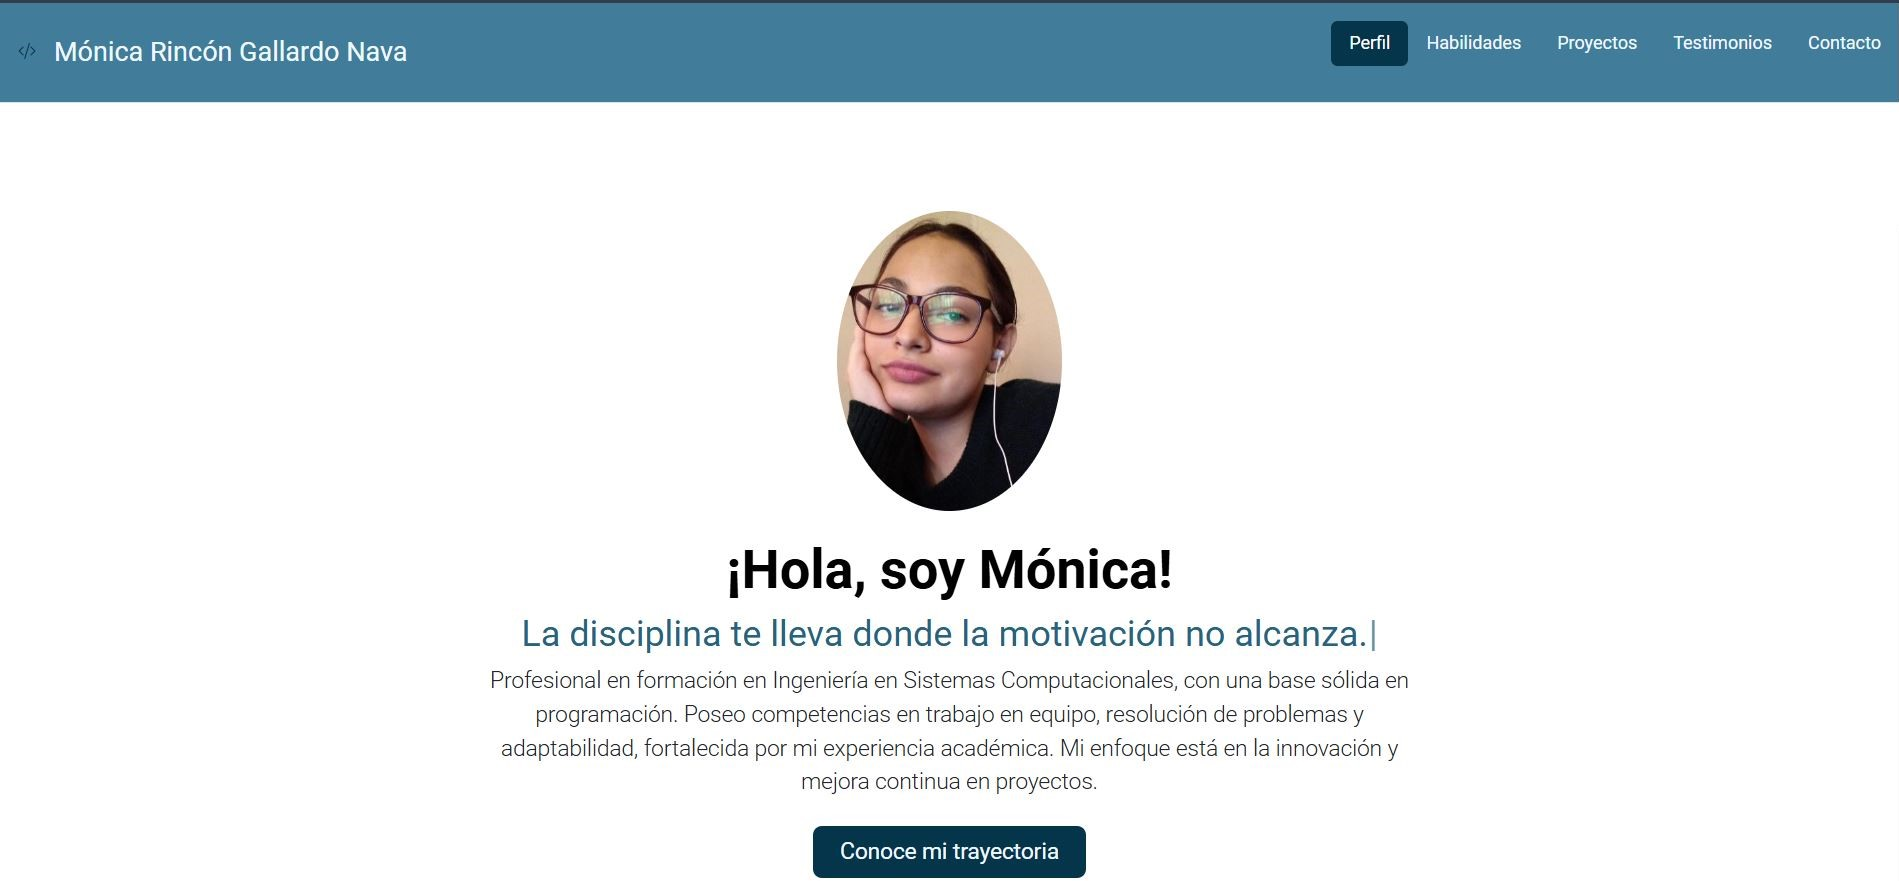
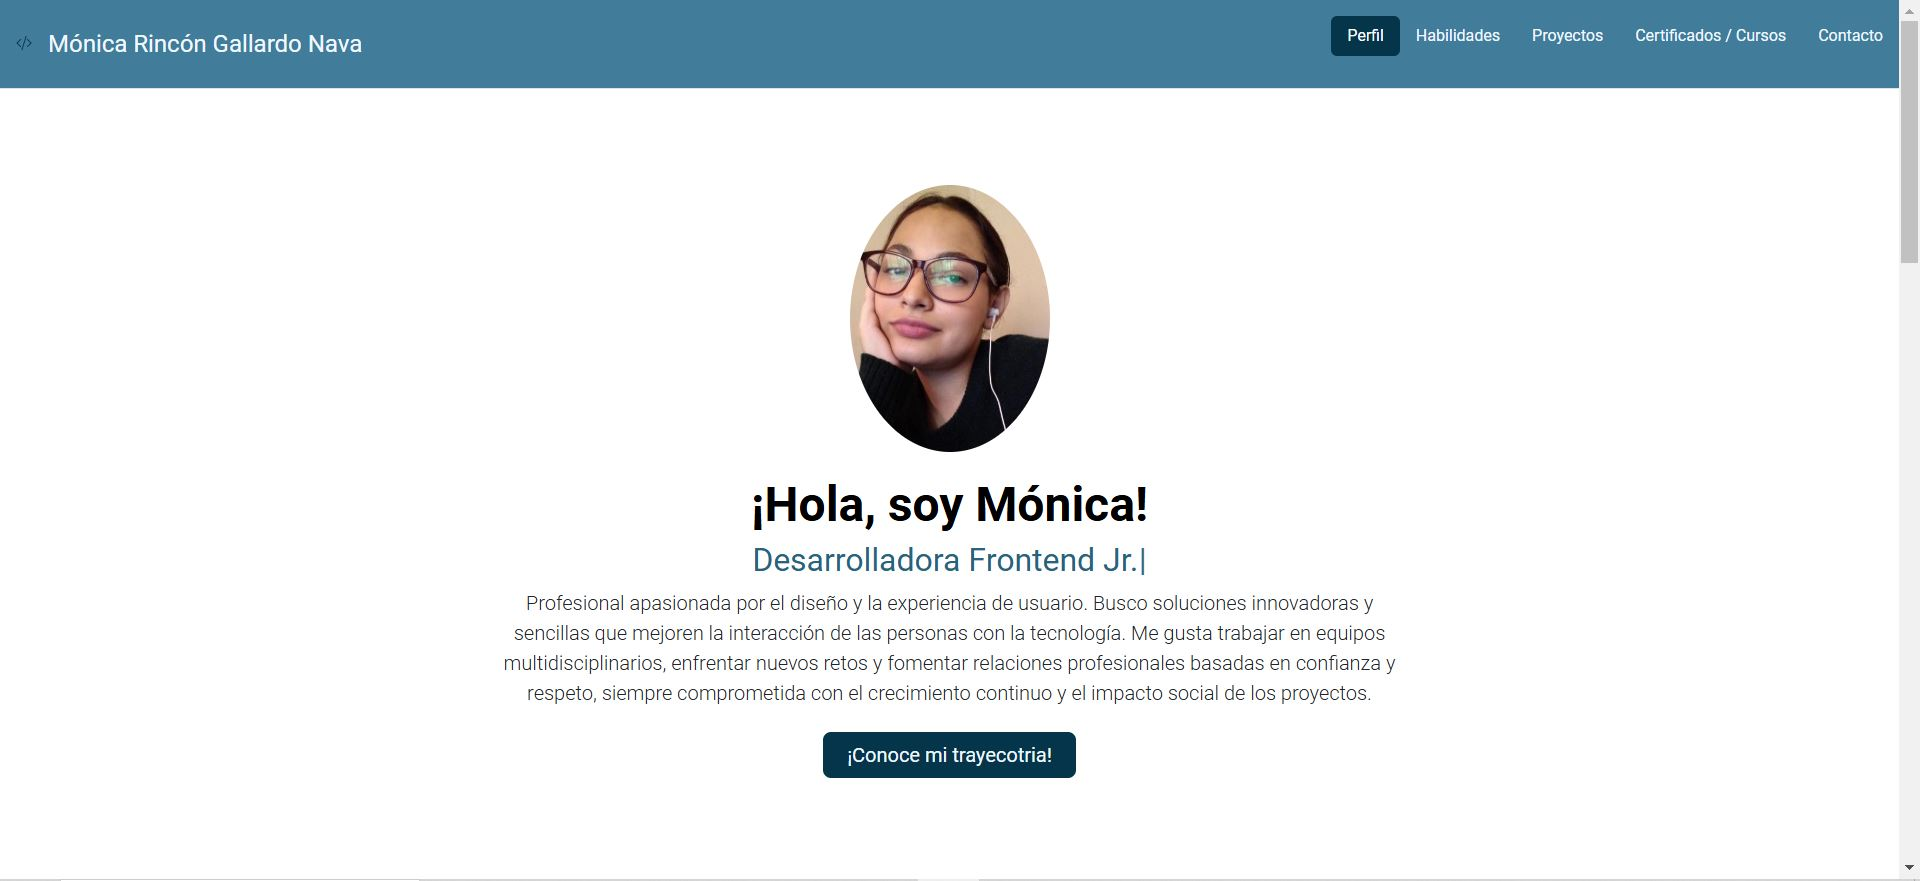
Add files via upload

Changed region(s): [[0.2175, 0.2145, 1.0, 1.0], [0.0, 0.0, 1.0, 0.3065], [0.0, 0.9807, 0.0311, 1.0]]

diff --git a/index.html b/index.html
@@ -32,10 +32,11 @@
         </a>
 
         <ul class="nav nav-pills">
-            <li class="nav-item"><a id="boton-perfil" href="#" class="nav-link active" aria-current="page">Perfil</a></li>
+            <li class="nav-item"><a id="boton-perfil" href="#" class="nav-link active" aria-current="page">Perfil</a>
+            </li>
             <li class="nav-item"><a href="#habilidades" class="nav-link">Habilidades</a></li>
             <li class="nav-item"><a href="#proyectos" class="nav-link">Proyectos</a></li>
-            <li class="nav-item"><a href="#testimonios" class="nav-link">Testimonios</a></li>
+            <li class="nav-item"><a href="#certificados" class="nav-link">Certificados / Cursos</a></li>
             <li class="nav-item"><a href="#contacto" class="nav-link">Contacto</a></li>
         </ul>
     </header>
@@ -50,13 +51,10 @@
                 <h2 id="app"></h2>
                 <div class="col-lg-6 mx-auto">
                     <p class="lead mb-4">
-                        Profesional en formación en Ingeniería en Sistemas Computacionales, con una base sólida en
-                        programación. Poseo competencias en trabajo en equipo, resolución de problemas y adaptabilidad,
-                        fortalecida por mi experiencia académica. Mi enfoque está en la innovación y mejora continua en
-                        proyectos.</p>
+                        Profesional apasionada por el diseño y la experiencia de usuario. Busco soluciones innovadoras y sencillas que mejoren la interacción de las personas con la tecnología. Me gusta trabajar en equipos multidisciplinarios, enfrentar nuevos retos y fomentar relaciones  profesionales basadas en confianza y respeto, siempre comprometida con el crecimiento continuo y el
+                        impacto social de los proyectos.</p>
                     <div class="d-grid gap-2 d-sm-flex justify-content-sm-center">
-                        <button type="button" class="btn btn-outline-secondary btn-lg px-4 btn-cv">Conoce mi
-                            trayectoria</button>
+                        <button type="button" class="btn btn-outline-secondary btn-lg px-4 btn-cv"><a href="https://drive.google.com/file/d/1NGyh9mH9yIrR-jyIq_ZtL-zQ4vHgmUO1/view?usp=sharing" target="_blank">¡Conoce mi trayecotria!</a></button>
                     </div>
                 </div>
             </div>
@@ -74,18 +72,7 @@
                     <div>
                         <h3 class="fs-2 text-body-emphasis">Desarrollo Frontend</h3>
                         <p>He creado sitios web responsivos aplicando los conocimientos obtenidos durante el bootcamp de
-                            Tecnolochicas PRO.</p>
-                    </div>
-                </div>
-                <div class="col d-flex align-items-start">
-                    <div
-                        class="icon-square text-body-emphasis  d-inline-flex align-items-center justify-content-center fs-3 flex-shrink-0 me-3">
-                        <i class="bi bi-pencil"></i>
-                    </div>
-                    <div>
-                        <h3 class="fs-2 text-body-emphasis">Creatividad</h3>
-                        <p>Paragraph of text beneath the heading to explain the heading. We'll add onto it with another
-                            sentence and probably just keep going until we run out of words.</p>
+                            Tecnolochicas PRO. Mi enfoque está en mejorar la experiencia de usuario.</p>
                     </div>
                 </div>
                 <div class="col d-flex align-items-start">
@@ -94,9 +81,19 @@
                         <i class="bi bi-journal-check"></i>
                     </div>
                     <div>
-                        <h3 class="fs-2 text-body-emphasis">Organización</h3>
-                        <p>Paragraph of text beneath the heading to explain the heading. We'll add onto it with another
-                            sentence and probably just keep going until we run out of words.</p>
+                        <h3 class="fs-2 text-body-emphasis">Gestión de Proyectos</h3>
+                        <p>He profundizado en la gestión de proyectos ágiles, aplicando los principios de Scrum y metodología ágiles para asegurar la entrega exitosa de proyectos tecnológicos. La formación en la metodología Ágil me ha permitido organizar equipos de trabajo de manera eficiente y optimizar plazos de entrega.</p>
+                    </div>
+                </div>
+
+                <div class="col d-flex align-items-start">
+                    <div
+                        class="icon-square text-body-emphasis d-inline-flex align-items-center justify-content-center fs-3 flex-shrink-0 me-3">
+                        <i class="bi bi-clipboard-data"></i>
+                    </div>
+                    <div>
+                        <h3 class="fs-2 text-body-emphasis">Gestión de Bases de Datos</h3>
+                        <p>He adquirido práctica en el diseño y administración de bases de datos relacionales.</p>
                     </div>
                 </div>
             </div>
@@ -110,16 +107,18 @@
                 <div class="col">
                     <div class="card shadow-sm">
                         <!-- imagen -->
-                        <img class="bd-placeholder-img card-img-top" src="assets/primera_pagina.jpg" alt="">
+                        <img class="bd-placeholder-img card-img-top" src="assets/firstWebPage.jpg" alt="">
                         <!-- <svg class="bd-placeholder-img card-img-top" width="100%" height="225" xmlns="http://www.w3.org/2000/svg" role="img" aria-label="Placeholder: Thumbnail" preserveAspectRatio="xMidYMid slice" focusable="false"><title>Placeholder</title><rect width="100%" height="100%" fill="#55595c"></rect><text x="50%" y="50%" fill="#eceeef" dy=".3em">Thumbnail</text></svg> -->
                         <div class="card-body">
                             <p class="card-text">Mi primera página</p>
                             <div class="d-flex justify-content-between align-items-center">
                                 <div class="btn-group">
-                                    <button type="button" class="btn btn-sm btn-outline-secondary btn-proyecto me-2"><a target="_blank"
-                                            href="">Ver Proyecto</a></button>
-                                    <button type="button" class="btn btn-sm btn-outline-secondary btn-proyecto me-2""><a target="_blank"
-                                            href="">GitHub</a></button>
+                                    <button type="button" class="btn btn-sm btn-outline-secondary btn-proyecto me-2"><a
+                                            target="_blank" href="https://first-web-page-pi.vercel.app/">Ver
+                                            Proyecto</a></button>
+                                    <button type="button" class="btn btn-sm btn-outline-secondary btn-proyecto me-2"><a
+                                            target="_blank"
+                                            href="https://github.com/monica-rincongallardo/first-web-page.git">GitHub</a></button>
                                 </div>
                                 <small class="text-body-secondary">HTML - CSS</small>
                             </div>
@@ -137,9 +136,11 @@
                             <p class="card-text">Clon de Pinterest</p>
                             <div class="d-flex justify-content-between align-items-center">
                                 <div class="btn-group">
-                                    <button type="button" class="btn btn-sm btn-outline-secondary btn-proyecto me-2"><a target="_blank"
-                                            href="https://pinterest-clon-beryl.vercel.app/">Ver Proyecto</a></button>
-                                    <button type="button" class="btn btn-sm btn-outline-secondary btn-proyecto me-2"><a target="_blank"
+                                    <button type="button" class="btn btn-sm btn-outline-secondary btn-proyecto me-2"><a
+                                            target="_blank" href="https://pinterest-clon-beryl.vercel.app/">Ver
+                                            Proyecto</a></button>
+                                    <button type="button" class="btn btn-sm btn-outline-secondary btn-proyecto me-2"><a
+                                            target="_blank"
                                             href="https://github.com/monica-rincongallardo/pinterest-clon.git">GitHub</a></button>
                                 </div>
                                 <small class="text-body-secondary">HTML - CSS</small>
@@ -158,10 +159,10 @@
                             <p class="card-text">This is a wider card.</p>
                             <div class="d-flex justify-content-between align-items-center">
                                 <div class="btn-group">
-                                    <button type="button" class="btn btn-sm btn-outline-secondary btn-proyecto me-2"><a target="_blank"
-                                            href="">Ver Proyecto</a></button>
-                                    <button type="button" class="btn btn-sm btn-outline-secondary btn-proyecto me-2"><a target="_blank"
-                                            href="">GitHub</a></button>
+                                    <button type="button" class="btn btn-sm btn-outline-secondary btn-proyecto me-2"><a
+                                            target="_blank" href="">Ver Proyecto</a></button>
+                                    <button type="button" class="btn btn-sm btn-outline-secondary btn-proyecto me-2"><a
+                                            target="_blank" href="">GitHub</a></button>
                                 </div>
                                 <small class="text-body-secondary">--</small>
                             </div>
@@ -172,24 +173,20 @@
             </div>
         </div>
 
-        <!-- testimonios -->
-        <div id="testimonios" class="testimonios container px-4 py-5">
-            <h2 class="pb-2 border-bottom">Testimonios</h2>
+        <!-- certificados -->
+        <div id="certificados" class="certificados container px-4 py-5">
+            <h2 class="pb-2 border-bottom">Certificados / Cursos</h2>
             <div id="carouselExampleAutoplaying" class="carousel slide mt-5" data-bs-ride="carousel">
                 <div class="carousel-inner">
                     <div class="carousel-item active">
                         <!-- inicia card -->
                         <div class="d-flex justify-content-center">
-                            <div class="card border-0" style="width: 18rem;">
-                                <img src="assets/testimonio1.jpg" class="card-img-top rounded-circle" alt="...">
+                            <div class="card border-0" style="width: 16rem;">
+                                <img src="assets/santanderOpenAcademy.jpg" class="card-img-top" alt="...">
                                 <div class="card-body">
-                                    <h5 class="card-title text-center">Anel Montes de Oca</h5>
-                                    <p class="card-text">Mónica muestra un rápido progreso en la adquisición de
-                                        habilidades técnicas clave y una gran disposición para colaborar en proyectos.
-                                        Su actitud positiva y su voluntad de aprender constantemente son cualidades
-                                        valiosas en el campo de la programación. No tengo dudas de que Mónica seguirá
-                                        creciendo y haciendo contribuciones significativas como desarrolladora frontend
-                                        en el futuro.</p>
+                                    <h5 class="card-title text-center">Gestión de Proyectos y Fundamentos de metodología
+                                        Agile</h5>
+                                    <p class="card-text">Santander Open Academy (2024)</p>
                                 </div>
                             </div>
                         </div>
@@ -198,14 +195,11 @@
                     <div class="carousel-item">
                         <!-- inicia card -->
                         <div class="d-flex justify-content-center">
-                            <div class="card border-0" style="width: 18rem;">
-                                <img src="assets/testimonio2.jpg" class="card-img-top rounded-circle" alt="...">
+                            <div class="card border-0" style="width: 16rem;">
+                                <img src="assets/santanderOpenAcademy.jpg" class="card-img-top" alt="...">
                                 <div class="card-body">
-                                    <h5 class="card-title text-center">María del Rayo Ponce Vargas</h5>
-                                    <p class="card-text">Como compañera de Mónica durante el Bootcamp de Techonolochicas
-                                        Pro, considero que es una persona dedicada y atenta que busca mejorar sus
-                                        habilidades como desarrolladora Frontend. Seguramente, debido a su desempeño, se
-                                        convertirá en una profesional exitosa.</p>
+                                    <h5 class="card-title text-center">Excel</h5>
+                                    <p class="card-text">Santander Open Academy (2024)</p>
                                 </div>
                             </div>
                         </div>
@@ -214,15 +208,12 @@
                     <div class="carousel-item">
                         <!-- inicia card -->
                         <div class="d-flex justify-content-center">
-                            <div class="card border-0" style="width: 18rem;">
-                                <img src="assets/testimonio3.jpg" class="card-img-top rounded-circle" alt="...">
+                            <div class="card border-0" style="width: 16rem;">
+                                <img src="assets/pythonInstitute.jpg" class="card-img-top" alt="...">
                                 <div class="card-body">
-                                    <h5 class="card-title text-center">Ana Paula Gutierrez Velez</h5>
-                                    <p class="card-text">He tenido la oportunidad de ver el trabajo de Mónica como
-                                        programadora y realmente me ha impresionado. Sus habilidades técnicas y su
-                                        capacidad para desarrollar soluciones efectivas son notables. Siempre entrega
-                                        proyectos bien estructurados y de alta calidad. Es una profesional comprometida
-                                        y confiable, y sin duda su trabajo habla por sí mismo.</p>
+                                    <h5 class="card-title text-center">PCEP - Certified Entry-Level Python Programmer
+                                    </h5>
+                                    <p class="card-text">Python Institute (2023)</p>
                                 </div>
                             </div>
                         </div>
@@ -231,15 +222,25 @@
                     <div class="carousel-item">
                         <!-- inicia card -->
                         <div class="d-flex justify-content-center">
-                            <div class="card border-0" style="width: 18rem;">
-                                <img src="assets/testimonio4.jpg" class="card-img-top rounded-circle" alt="...">
+                            <div class="card border-0" style="width: 16rem;">
+                                <img src="assets/googleCloud.jpg" class="card-img-top" alt="...">
                                 <div class="card-body">
-                                    <h5 class="card-title text-center">América Araceli Gonzalez Luna</h5>
-                                    <p class="card-text">Tuve la gran oportunidad de compartir con Mónica en el bootcamp
-                                        de Technolochicas Pro. Sin duda alguna, demostró ser una excelente
-                                        desarrolladora front-end, con una notable facilidad de aprendizaje y destacando
-                                        por sus magníficos diseños. Fue un placer conocerle, y espero seguir de cerca
-                                        sus futuras creaciones. El futuro que le espera es asombroso.</p>
+                                    <h5 class="card-title text-center">Google Cloud Computing Foundations </h5>
+                                    <p class="card-text">Google Cloud Computing Foundations ACADEMY (2023)</p>
+                                </div>
+                            </div>
+                        </div>
+                        <!-- termina card -->
+                    </div>
+                    <div class="carousel-item">
+                        <!-- inicia card -->
+                        <div class="d-flex justify-content-center">
+                            <div class="card border-0" style="width: 16rem;">
+                                <img src="assets/oracleAcademy.jpg" class="card-img-top" alt="...">
+                                <div class="card-body">
+                                    <h5 class="card-title text-center">Certificate of Participation - Ada Lovelace
+                                        Challenge</h5>
+                                    <p class="card-text">Oracle Academy (2022)</p>
                                 </div>
                             </div>
                         </div>
@@ -264,7 +265,7 @@
 
         <!-- contacto -->
         <div id="contacto" class="px-4 py-5 my-5 text-center">
-            <i class="bi bi-envelope d-block mx-auto mb-4 fs-1"></i>
+            <i class="bi bi-envelope-at-fill d-block mx-auto mb-4 fs-1"></i>
             <h1 class="display-5 fw-bold text-body-emphasis">Contáctame</h1>
             <div class="col-lg-6 mx-auto">
                 <p class="lead mb-4">Contáctame para iniciar un proyecto de desarrollo web.</p>
@@ -281,12 +282,12 @@
     <footer class="py-3 my-4">
 
         <ul class="nav justify-content-center border-bottom pb-3 mb-3">
-            <li class="nav-item"><a href="www.linkedin.com/in/mónica-rincón-gallardo-nava"
-                    class="nav-link px-2" target="_blank"><i class="bi bi-linkedin"></i></a></li>
-            <li class="nav-item"><a href="https://github.com/monica-rincongallardo"
-                    class="nav-link px-2" target="_blank"><i class="bi bi-github"></i></a></li>
-            <li class="nav-item"><a href="https://www.instagram.com/moni.rincongallardo/"
-                    class="nav-link px-2" target="_blank"><i class="bi bi-instagram"></i></a></li>
+            <li class="nav-item"><a href="www.linkedin.com/in/mónica-rincón-gallardo-nava" class="nav-link px-2"
+                    target="_blank"><i class="bi bi-linkedin"></i></a></li>
+            <li class="nav-item"><a href="https://github.com/monica-rincongallardo" class="nav-link px-2"
+                    target="_blank"><i class="bi bi-github"></i></a></li>
+            <li class="nav-item"><a href="https://www.instagram.com/moni.rincongallardo/" class="nav-link px-2"
+                    target="_blank"><i class="bi bi-instagram"></i></a></li>
         </ul>
         <p class="text-center">© 2024 Creado por Mónica Rincón Gallardo Nava en el Bootcamp de<a
                 href="https://tecnolochicas.mx/" target="_blank"> TecnolochicasPro</a></p>

diff --git a/style.css b/style.css
@@ -28,8 +28,11 @@ header{
 }
 .btn-cv{
     background-color: #04354A;
-    color: #f0f8ff;
     border: none;
+}
+.btn-cv a{
+    text-decoration: none;
+    color: #f0f8ff;
 }
 .btn-cv:hover{
    background-color: #417c9a;
@@ -64,16 +67,27 @@ header{
     color: #f0f8ff;
 }
 
+.certificados{
+    text-align: center;
+}
 
-.testimonios h2{
+.certificados h2{
     background-color: #b7d7ea;
     color: #124b65;
-    text-align: center;
     font-weight: bold;
     letter-spacing: 0.2em;
 }
-.card .card-title{
+.certificados .card .card-title{
     color: #124b65;
+}
+
+.certificados .card{
+    height: 75%;
+}
+
+.certificados .card-img-top{
+    width: 100%;
+    align-items: center;
 }
 
 
